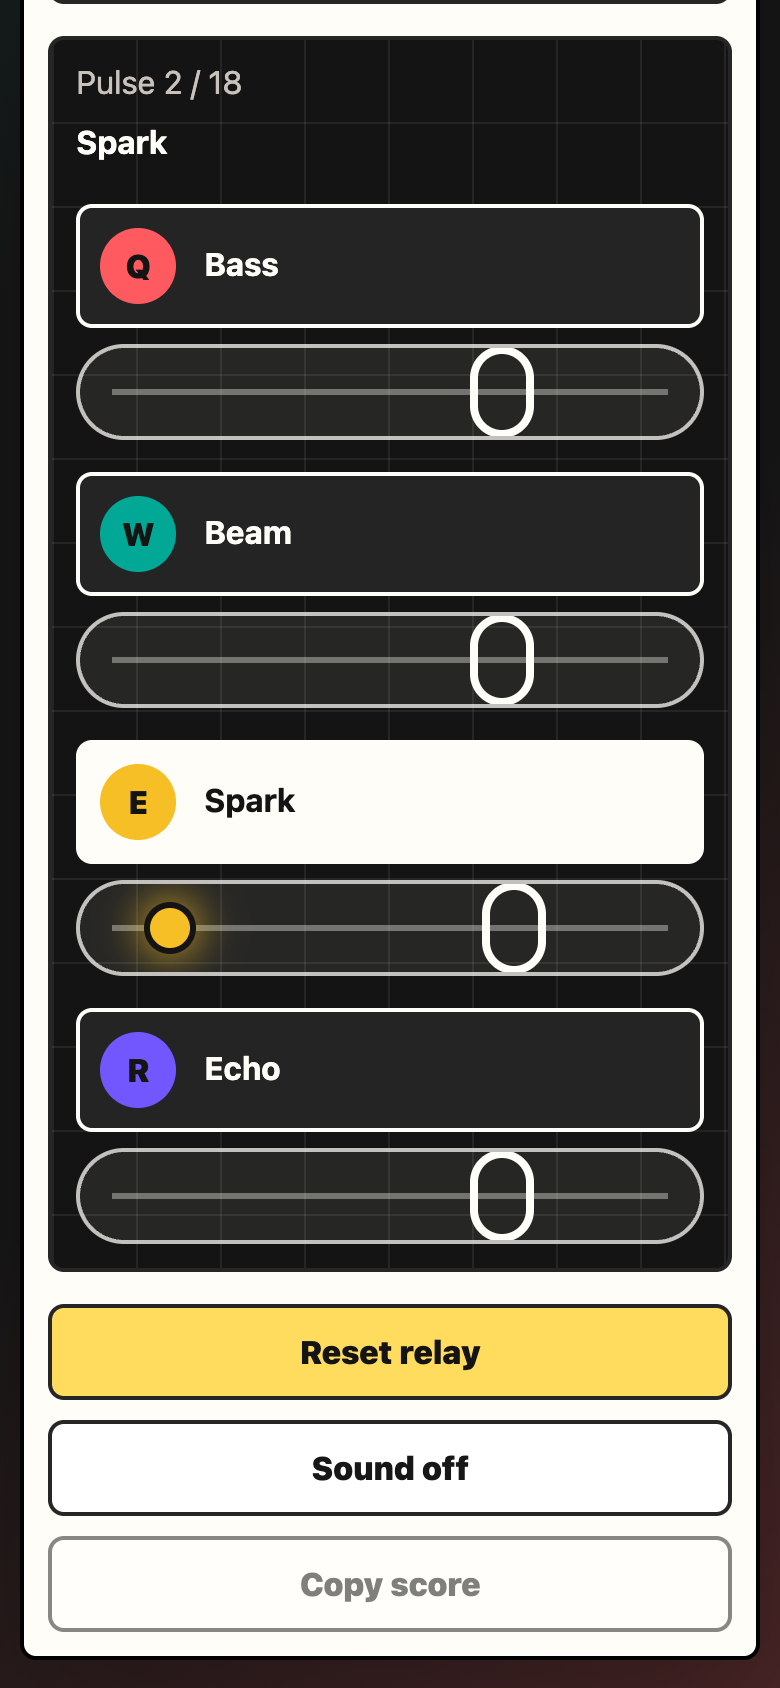
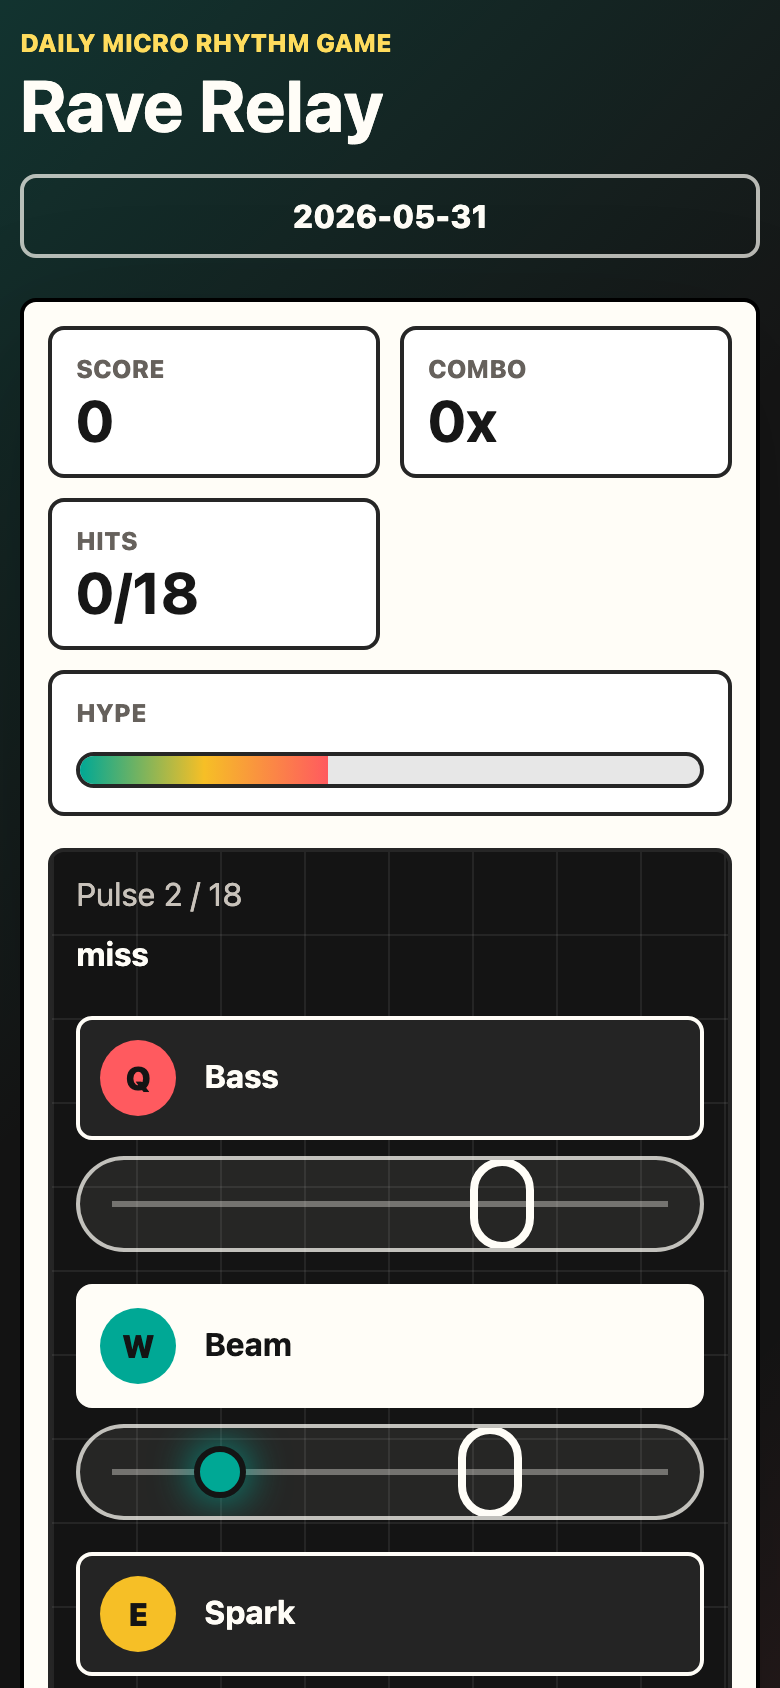
Add shareable challenge links

diff --git a/game.js b/game.js
@@ -47,6 +47,25 @@
     return formatter.format(now || new Date());
   }
 
+  function isValidDateString(value) {
+    if (!/^\d{4}-\d{2}-\d{2}$/.test(value || "")) return false;
+    const date = new Date(`${value}T00:00:00Z`);
+    return !Number.isNaN(date.valueOf()) && date.toISOString().slice(0, 10) === value;
+  }
+
+  function resolveChallengeDate(search, fallback) {
+    const params = new URLSearchParams(search || "");
+    const requested = params.get("date");
+    return isValidDateString(requested) ? requested : fallback;
+  }
+
+  function withDateParam(baseUrl, dateString) {
+    const url = new URL(baseUrl);
+    url.searchParams.set("date", dateString);
+    url.hash = "";
+    return url.href;
+  }
+
   function buildSetlist(dateString, count) {
     const total = count || ROUND_SIZE;
     const random = mulberry32(seedFromString(`rave-relay:${dateString}`));
@@ -142,10 +161,13 @@
     buildSetlist,
     clamp,
     gradeRun,
+    isValidDateString,
     scoreTap,
     seedFromString,
+    resolveChallengeDate,
     shanghaiDateString,
-    shareText
+    shareText,
+    withDateParam
   };
 
   if (typeof module !== "undefined" && module.exports) {
@@ -167,6 +189,7 @@
     feedback: document.getElementById("feedback"),
     startButton: document.getElementById("start-button"),
     soundButton: document.getElementById("sound-button"),
+    challengeButton: document.getElementById("challenge-button"),
     copyButton: document.getElementById("copy-button"),
     resultPanel: document.getElementById("result-panel"),
     grade: document.getElementById("grade"),
@@ -176,7 +199,7 @@
   };
 
   const state = {
-    date: shanghaiDateString(new Date()),
+    date: resolveChallengeDate(root.location.search, shanghaiDateString(new Date())),
     setlist: [],
     mode: "ready",
     index: 0,
@@ -197,6 +220,10 @@
     audio: null,
     lastShare: ""
   };
+
+  function challengeUrl() {
+    return withDateParam(root.location.href, state.date);
+  }
 
   function renderStats() {
     refs.dayPill.textContent = state.date;
@@ -392,7 +419,7 @@
 
   async function copyScore() {
     if (!state.lastShare) return;
-    const text = `${state.lastShare} ${root.location.href}`;
+    const text = `${state.lastShare} ${challengeUrl()}`;
     try {
       await root.navigator.clipboard.writeText(text);
     } catch (error) {
@@ -409,6 +436,24 @@
     setFeedback("score copied");
   }
 
+  async function copyChallenge() {
+    const text = `Rave Relay ${state.date} challenge: ${challengeUrl()}`;
+    try {
+      await root.navigator.clipboard.writeText(text);
+    } catch (error) {
+      const textarea = document.createElement("textarea");
+      textarea.value = text;
+      textarea.setAttribute("readonly", "");
+      textarea.style.position = "fixed";
+      textarea.style.left = "-9999px";
+      document.body.appendChild(textarea);
+      textarea.select();
+      document.execCommand("copy");
+      textarea.remove();
+    }
+    setFeedback("challenge copied");
+  }
+
   refs.startButton.addEventListener("click", () => {
     resetRound();
     state.timer = root.setTimeout(nextPulse, 300);
@@ -422,6 +467,7 @@
   });
 
   refs.copyButton.addEventListener("click", copyScore);
+  refs.challengeButton.addEventListener("click", copyChallenge);
 
   document.querySelectorAll("[data-lane-button]").forEach((button) => {
     button.addEventListener("click", () => handleLane(Number(button.dataset.laneButton)));

diff --git a/scripts/check.js b/scripts/check.js
@@ -26,13 +26,16 @@ const readme = fs.readFileSync(path.join(root, "README.md"), "utf8");
 assert.ok(html.includes('rel="stylesheet" href="styles.css"'), "HTML links stylesheet");
 assert.ok(html.includes('<script src="game.js"></script>'), "HTML links game script");
 assert.ok(html.includes('id="start-button"'), "HTML includes start button");
+assert.ok(html.includes('id="challenge-button"'), "HTML includes challenge link button");
 assert.ok(html.includes('data-lane-button="0"'), "HTML includes lane controls");
 assert.ok(css.includes("@media (max-width: 760px)"), "CSS includes mobile layout");
 assert.ok(css.includes(".result-panel[hidden]"), "CSS preserves hidden result state");
 assert.ok(js.includes("module.exports = core"), "core functions are testable");
+assert.ok(js.includes("resolveChallengeDate"), "game supports challenge date links");
 assert.ok(readme.includes("## How to run"), "README includes run section");
 assert.ok(readme.includes("## Inspiration"), "README includes inspiration section");
 assert.ok(readme.includes("## Why it may be worth a star"), "README includes star value section");
+assert.ok(readme.includes("?date=YYYY-MM-DD"), "README documents challenge links");
 
 const combined = [html, css, js, readme].join("\n");
 assert.ok(!combined.includes("/Users/"), "no local absolute user paths");

diff --git a/scripts/test-core.js b/scripts/test-core.js
@@ -6,9 +6,12 @@ const {
   ROUND_SIZE,
   buildSetlist,
   gradeRun,
+  isValidDateString,
+  resolveChallengeDate,
   scoreTap,
   seedFromString,
-  shareText
+  shareText,
+  withDateParam
 } = require("../game.js");
 
 const today = "2026-05-31";
@@ -35,6 +38,15 @@ for (let index = 2; index < setlist.length; index += 1) {
 
 assert.equal(seedFromString("same"), seedFromString("same"), "hash seed is stable");
 assert.notEqual(seedFromString("same"), seedFromString("other"), "hash seed changes with input");
+
+assert.equal(isValidDateString("2026-05-31"), true, "valid challenge date is accepted");
+assert.equal(isValidDateString("2026-02-31"), false, "impossible challenge date is rejected");
+assert.equal(resolveChallengeDate("?date=2026-05-31", "2026-06-04"), "2026-05-31");
+assert.equal(resolveChallengeDate("?date=bad", "2026-06-04"), "2026-06-04");
+assert.equal(
+  withDateParam("https://example.com/rave/?foo=1#score", "2026-05-31"),
+  "https://example.com/rave/?foo=1&date=2026-05-31"
+);
 
 const perfect = scoreTap(true, 20, 2);
 assert.equal(perfect.kind, "perfect");

diff --git a/index.html b/index.html
@@ -96,6 +96,7 @@
         <div class="controls">
           <button class="primary-action" id="start-button" type="button">Start relay</button>
           <button class="icon-action" id="sound-button" type="button" aria-pressed="false">Sound off</button>
+          <button class="icon-action" id="challenge-button" type="button">Copy challenge</button>
           <button class="icon-action" id="copy-button" type="button" disabled>Copy score</button>
         </div>
 

diff --git a/styles.css b/styles.css
@@ -319,7 +319,7 @@ h1 {
 
 .controls {
   display: grid;
-  grid-template-columns: minmax(170px, 1fr) minmax(130px, auto) minmax(130px, auto);
+  grid-template-columns: minmax(170px, 1fr) repeat(3, minmax(132px, auto));
   gap: 10px;
 }
 

diff --git a/README.md b/README.md
@@ -11,17 +11,19 @@ It is built as a static, dependency-free HTML/CSS/JavaScript game so it opens in
 - A full run is 18 pulses, so one attempt takes less than a minute.
 - The daily setlist is deterministic, which makes scores easy to compare.
 - Timing grades, combo bonuses, a hype meter, local best score, and copyable results make repeat plays feel worthwhile.
+- Seeded challenge links make any date replayable with `?date=YYYY-MM-DD`.
 - It supports mouse, touch, and Q/W/E/R keyboard play without login, install steps, or remote services.
 
 ## Why it may be worth a star
 
-Rave Relay is small enough to read in one sitting but polished enough to share: no build stack, no external art, no accounts, responsive layout, deterministic daily content, and a clear score loop. It is a reusable pattern for tiny web games that feel complete instead of prototype-shaped.
+Rave Relay is small enough to read in one sitting but polished enough to share: no build stack, no external art, no accounts, responsive layout, deterministic daily content, copyable challenge links, and a clear score loop. It is a reusable pattern for tiny web games that feel complete instead of prototype-shaped.
 
 ## What it can do
 
 - Start a daily seeded 18-pulse relay.
 - Score taps as perfect, nice, catch, miss, or wrong lane.
 - Track score, combo, hits, hype, grade, and local best score.
+- Copy the current daily challenge link before playing.
 - Copy a compact result string for sharing.
 - Play optional synthesized tones after a user gesture.
 
@@ -38,6 +40,12 @@ python3 -m http.server 5212
 
 Then visit `http://localhost:5212/`.
 
+Replay or share a specific setlist with `?date=YYYY-MM-DD`, for example:
+
+```text
+https://bte808.github.io/fun-20260531-a-rave-relay/?date=2026-05-31
+```
+
 For the full local release check, run:
 
 ```sh
@@ -52,7 +60,7 @@ git diff --check
 1. Press **Start relay**.
 2. Catch the active lane pulse when it crosses the bright ring.
 3. Build combo by landing clean hits.
-4. Finish all 18 pulses and copy the final score.
+4. Copy the date challenge before a run, or finish all 18 pulses and copy the final score.
 
 Lane controls:
 
@@ -67,7 +75,6 @@ The idea came from browsing recent public web inspiration around tiny browser-fi
 
 ## Future extensions
 
-- Add seeded challenge links.
 - Add an optional hard mode with narrower timing windows.
 - Add a visual replay strip for missed pulses.
 - Add more audio voices while keeping the no-asset approach.
